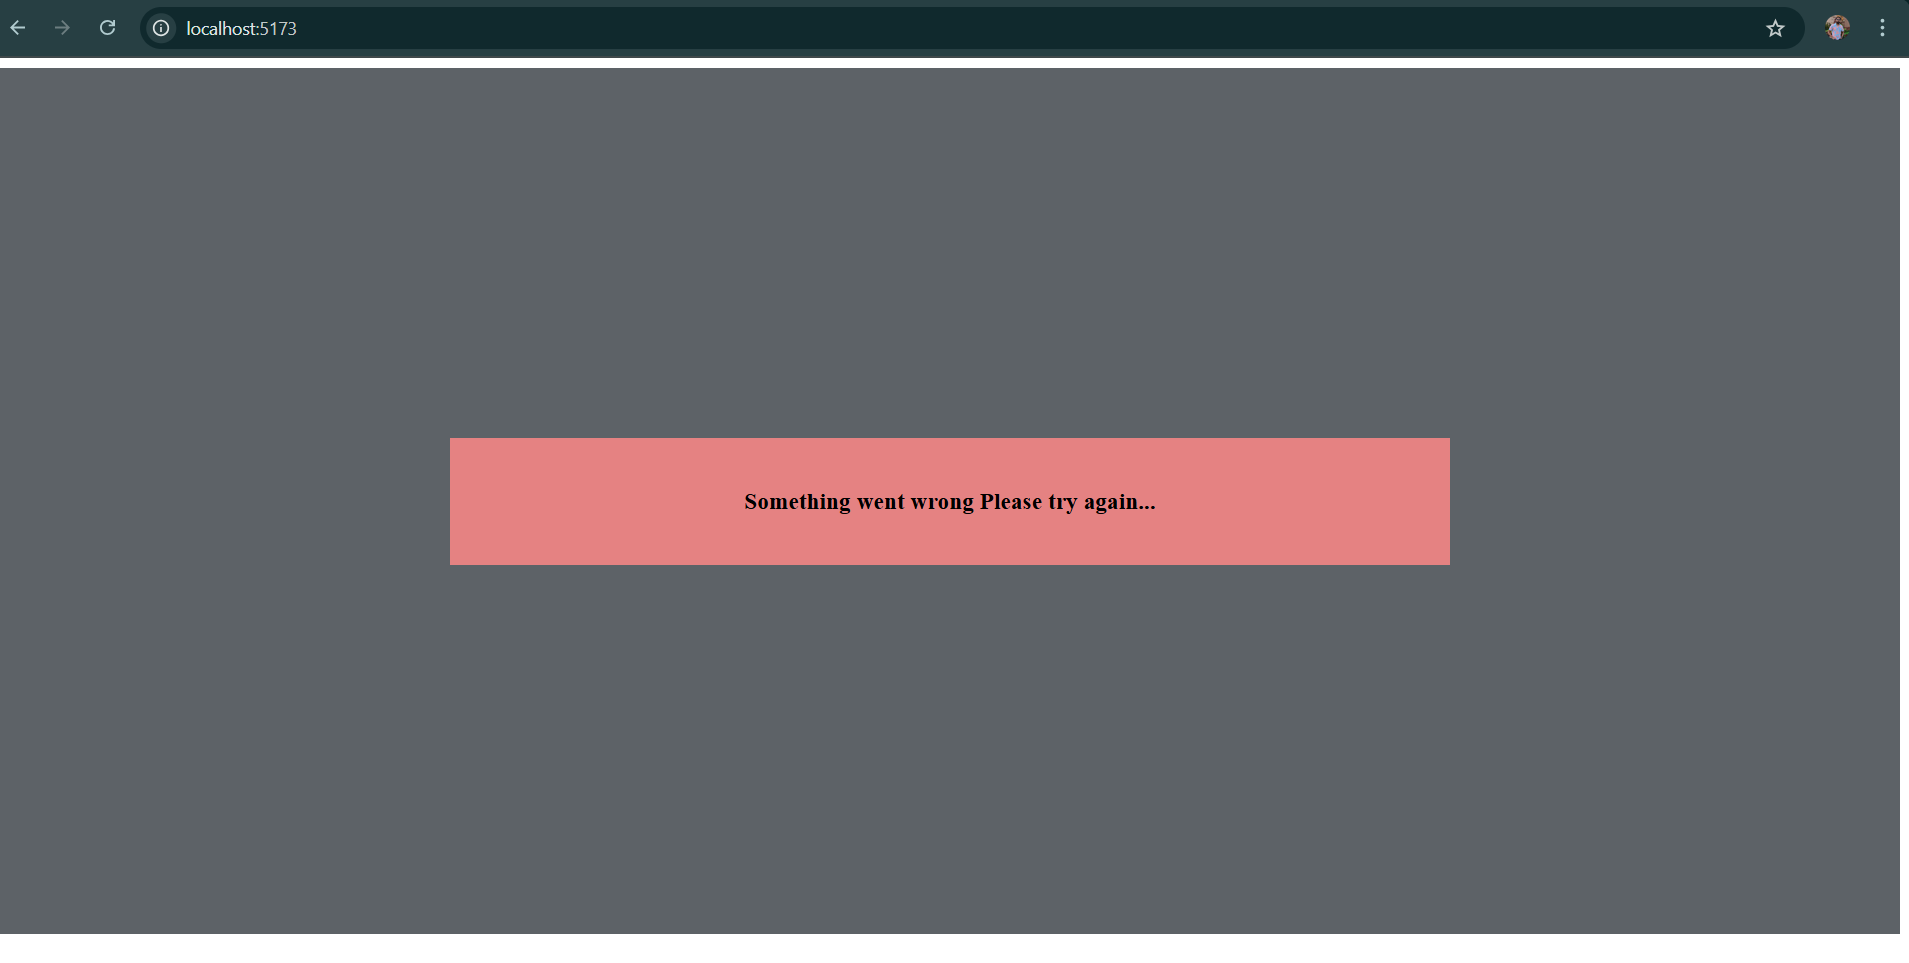
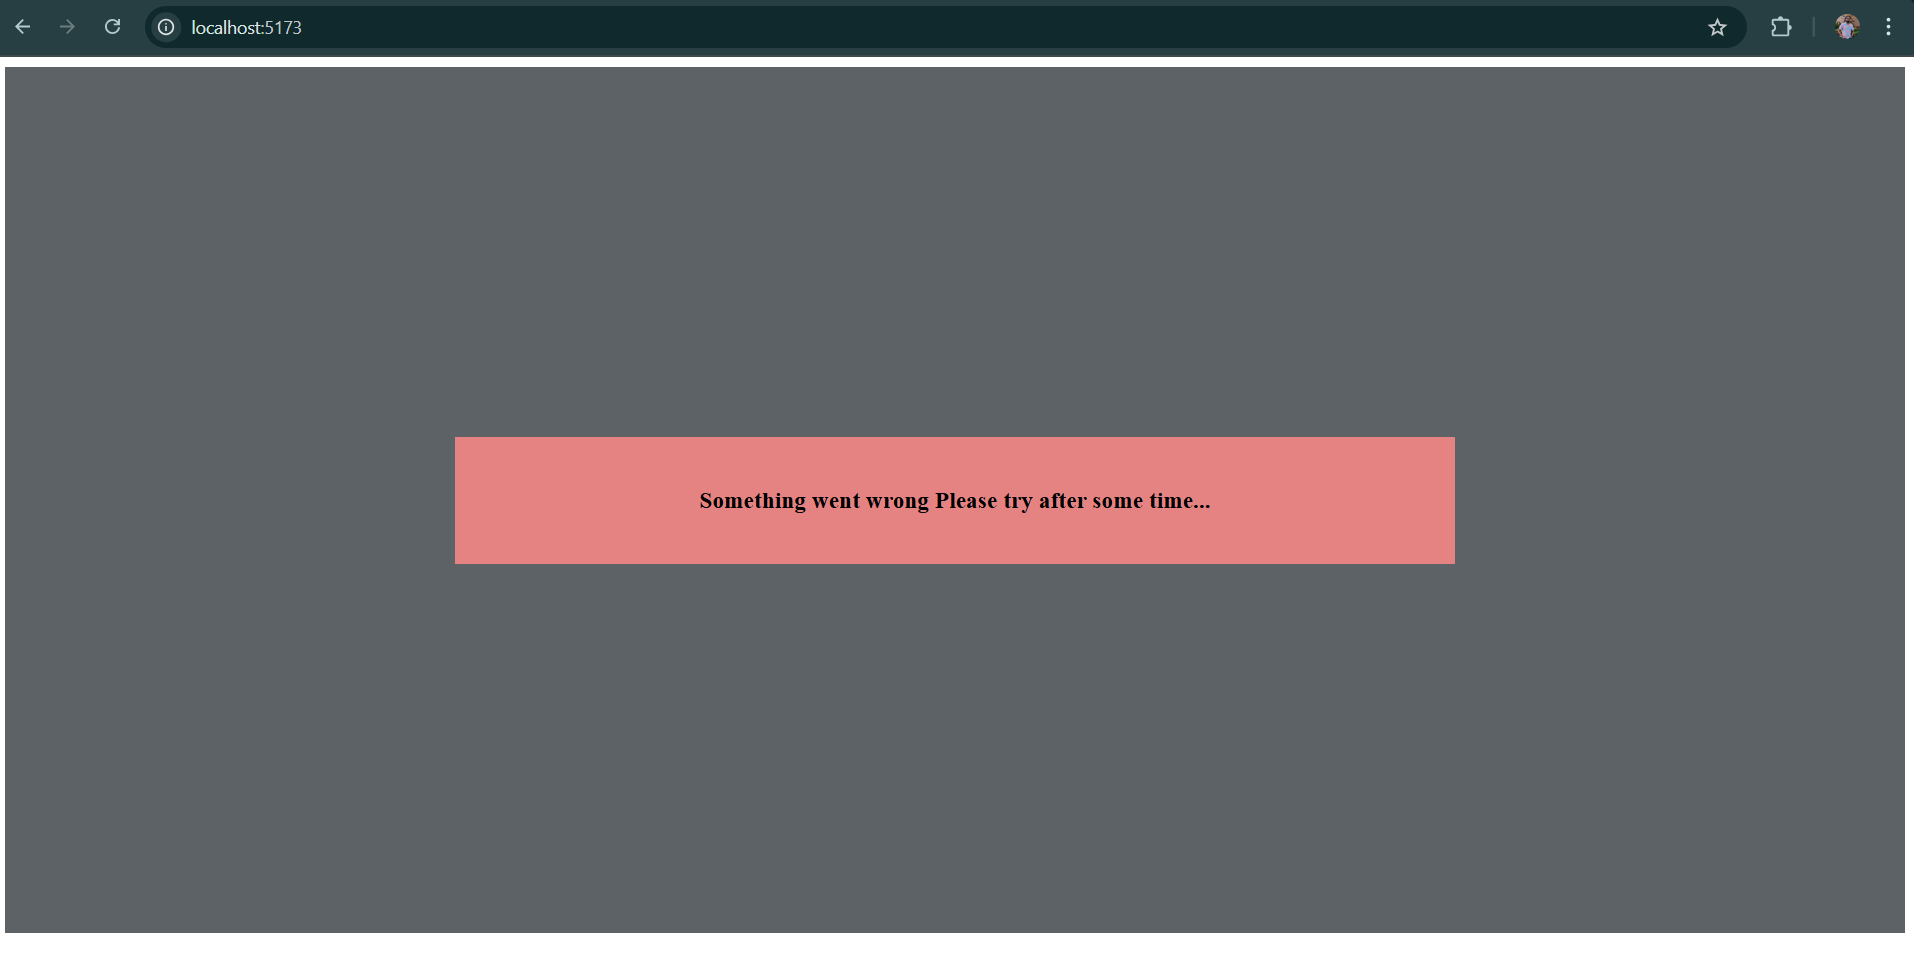
error msg screenshot added

diff --git a/src/Components/ErrorBoundry/ErrorBoundryWrapper.jsx b/src/Components/ErrorBoundry/ErrorBoundryWrapper.jsx
@@ -22,7 +22,7 @@ export default class ErrorBoundryWrapper extends Component {
 const FallbackScreen=()=>{
   return<>
     <div className="fallback_container">
-        <h3 className="fallback_content">Something went wrong Please try later...</h3>
+        <h3 className="fallback_content">Something went wrong Please try after some time...</h3>
     </div>
   </>
 }
